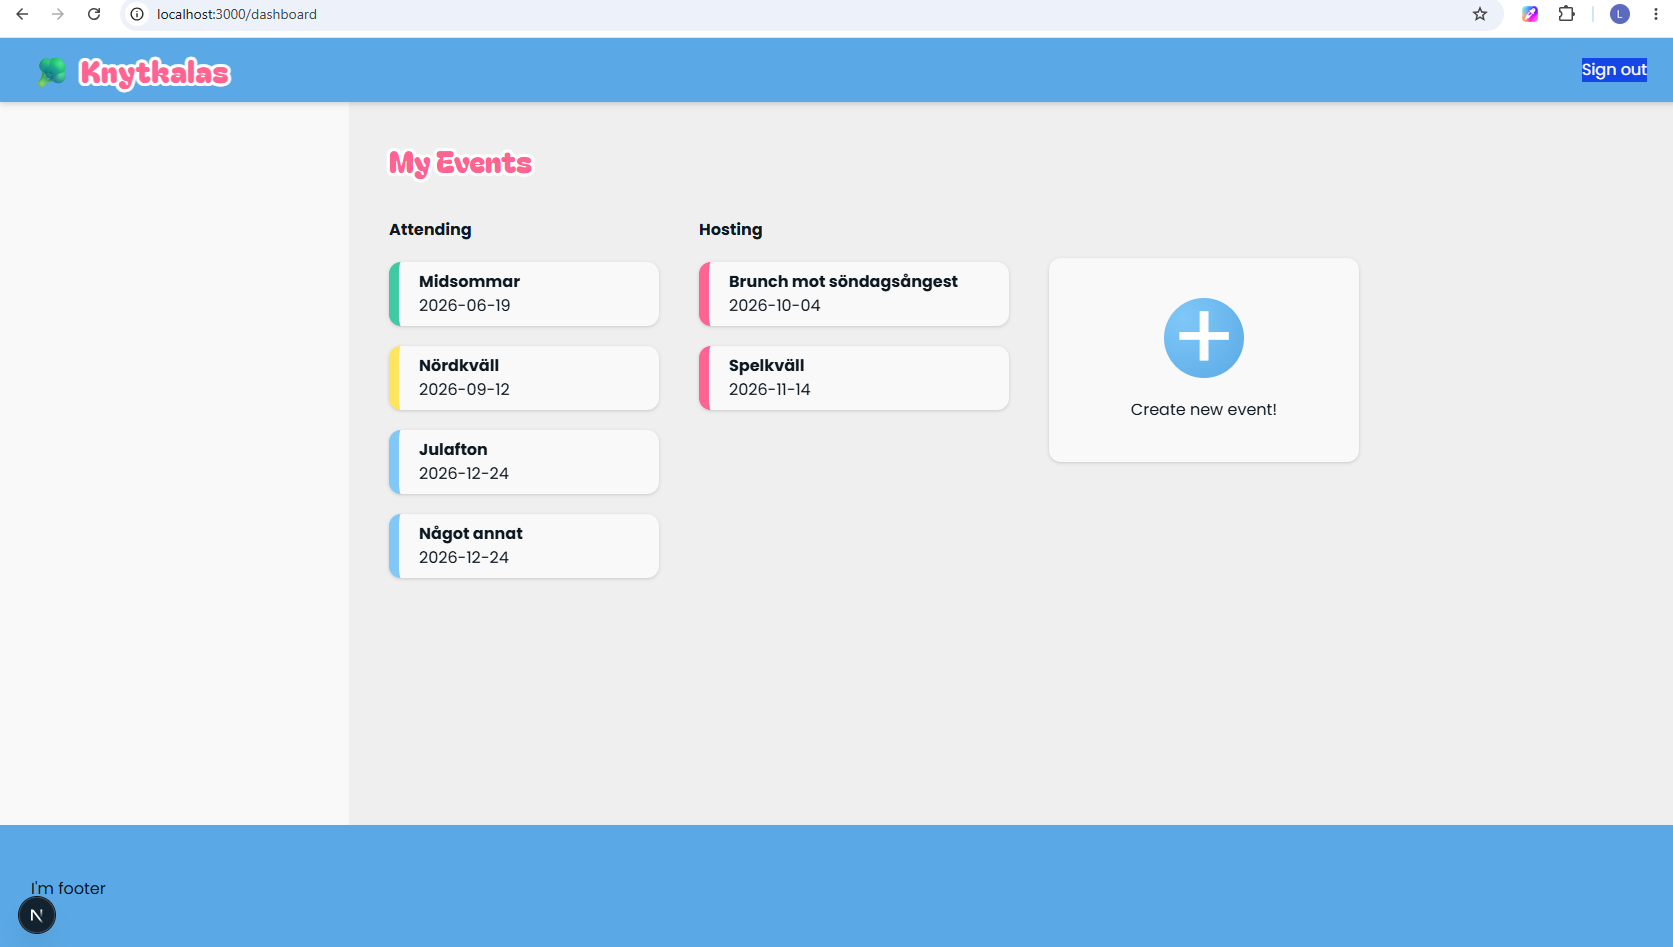
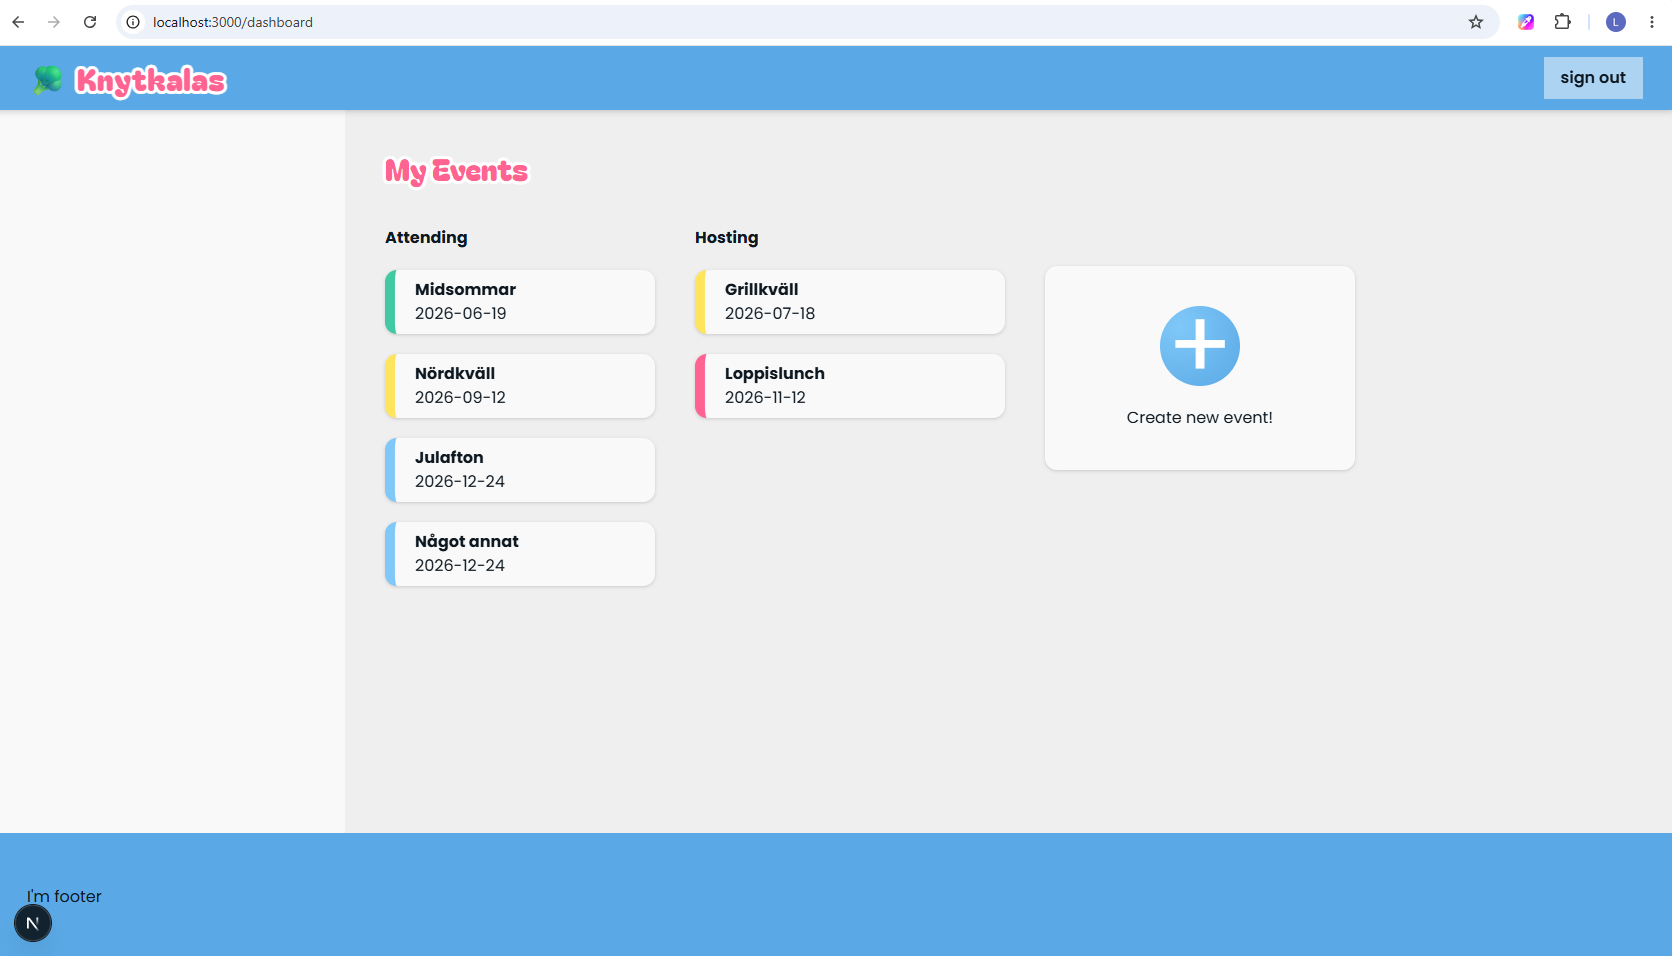
Replace mock hosting data with getHostedEvents, fix login callback-url bug, add auth-redirect handling to login/onboarding, and simplify entity types.

diff --git a/features/auth/hooks/useAuthRedirect.ts b/features/auth/hooks/useAuthRedirect.ts
@@ -1,0 +1,50 @@
+"use client";
+
+import { useEffect, useState } from "react";
+import { useRouter } from "next/navigation";
+import { getCurrentUserId } from "@/features/auth/services/getCurrentUserId";
+import { getCurrentUser } from "@/features/auth/services/getCurrentUser";
+import { UserData } from "@/types/entityTypes";
+import { isPathSafe } from "../utils/isPathSafe";
+
+export function useAuthRedirect(callbackUrl: string) {
+  const [currentUser, setCurrentUser] = useState<UserData | null>(null);
+  const [isLoading, setIsLoading] = useState(true);
+  const router = useRouter();
+  const url = isPathSafe(callbackUrl) ? callbackUrl : "/";
+
+  useEffect(() => {
+    const getUser = async () => {
+      try {
+        const sessionUserId = await getCurrentUserId();
+        if (!sessionUserId) {
+          setIsLoading(false);
+          return;
+        }
+
+        const currentUserData = await getCurrentUser(sessionUserId);
+        if (currentUserData) {
+          setCurrentUser(currentUserData);
+        }
+      } catch (error) {
+        console.error("Failed to fetch user session:", error);
+      } finally {
+        setIsLoading(false);
+      }
+    };
+
+    getUser();
+  }, []);
+
+  useEffect(() => {
+    if (isLoading || !currentUser) return;
+
+    if (currentUser.onboarded) {
+      router.push(url);
+    } else {
+      router.push("/onboarding");
+    }
+  }, [currentUser, url, router, isLoading]);
+
+  return { currentUser, isLoading };
+}

diff --git a/app/dashboard/page.tsx b/app/dashboard/page.tsx
@@ -3,6 +3,7 @@ import EventList from "@/features/dashboard/components/EventList";
 import DashboardMenu from "@/features/dashboard/components/DashboardMenu";
 import FeatureHeadline from "@/components/ui/FeatureHeadline";
 import HostEventCta from "@/features/dashboard/components/HostEventCta";
+import { getHostedEvents } from "@/features/dashboard/services/getHostedEvents";
 
 const mockEvents: PrismaEvent[] = [
   {
@@ -53,34 +54,9 @@ const mockEvents: PrismaEvent[] = [
   },
 ];
 
-const hostMockEvents: PrismaEvent[] = [
-  {
-    id: 101,
-    createdAt: new Date(),
-    occasion: "Brunch mot söndagsångest",
-    description:
-      "Vem orkar måndag? Vi dränker måndagsångesten i mimosa, pannkakor och alldeles för mycket lönnsirap.",
-    activeCategories: ["MAIN", "SALAD", "DESSERT"],
-    date: new Date("2026-10-04T11:00:00"),
-    location: "Café Mys, Götgatan",
-    responseDeadline: new Date("2026-10-02"),
-    hostId: "host-brunch-789",
-  },
-  {
-    id: 102,
-    createdAt: new Date(),
-    occasion: "Spelkväll",
-    description:
-      "Vänskaper kommer att sättas på prov i Monopoly och Settlers. Förloraren diskar.",
-    activeCategories: ["MAIN", "SALAD", "DESSERT"],
-    date: new Date("2026-11-14T18:00:00"),
-    location: "Hemma hos Linus, Lgh 4B",
-    responseDeadline: new Date("2026-11-12"),
-    hostId: "host-gamer-999",
-  },
-];
+export default async function Dashboard() {
+  const hostedEvents = await getHostedEvents();
 
-export default function Dashboard() {
   return (
     <div className="grid h-full max-w-350 grid-cols-4 grid-rows-[auto_1fr]">
       <header className="col-span-2 col-start-2 row-start-1 p-10">
@@ -95,7 +71,7 @@ export default function Dashboard() {
       </section>
       <section className="col-span-1 col-start-3 row-start-2 pr-10">
         <h2 className="mb-5">Hosting</h2>
-        <EventList events={hostMockEvents} />
+        <EventList events={hostedEvents} />
       </section>
       <section className="col-span-1 col-start-4 row-start-2 pr-10">
         <HostEventCta />

diff --git a/app/onboarding/page.tsx b/app/onboarding/page.tsx
@@ -1,0 +1,31 @@
+"use client";
+import OnboardingForm from "@/features/onboarding/components/OnboardingForm";
+import { useEffect } from "react";
+import { useSearchParams } from "next/navigation";
+import { useRouter } from "next/navigation";
+import { useAuthRedirect } from "@/features/auth/hooks/useAuthRedirect";
+import { GoogleLogInButton } from "@/features/auth/components/GoogleLogInButton";
+
+export default function OnboardingPage() {
+  const searchParams = useSearchParams();
+  const callbackUrl = "/" + (searchParams.get("target-url") || "");
+  const { isLoading, currentUser } = useAuthRedirect(callbackUrl);
+  const router = useRouter();
+
+  useEffect(() => {
+    if (!isLoading) {
+      if (currentUser?.onboarded) {
+        router.push(callbackUrl);
+      }
+    }
+  }, [isLoading, callbackUrl, currentUser?.onboarded, router]);
+
+  if (isLoading) {
+    return <main className="flex items-center justify-center">Loading...</main>;
+  }
+
+  if (currentUser?.onboarded) return null;
+  if (currentUser) return <OnboardingForm />;
+
+  if (!currentUser) return <GoogleLogInButton />;
+}

diff --git a/types/entityTypes.ts b/types/entityTypes.ts
@@ -1,33 +1,16 @@
-import { Account, Session } from "better-auth";
 import type { IssueType } from "@/generated/prisma";
 
-export type User = {
-  id: string;
-  createdAt?: Date;
-  email: string;
+export type EventData = { occasion: string; date: Date; id: number };
+
+export type UserData = {
   name: string;
-  sentInvites?: Invite[];
-  receivedInvites?: Invite[];
-  hostedEvents?: Event[];
-  avoids: IssueType[];
-  emailVerified?: boolean;
-  image?: string;
-  updatedAt?: Date;
-  sessions?: Session[];
-  accounts?: Account[];
+  email: string;
+  onboarded: boolean;
+  id: string;
+  avoids?: IssueType[];
 };
 
 export type NewUser = {
   name: string;
   avoids: IssueType[];
-};
-
-export type Invite = {
-  placeholder: string;
-  //WIP
-};
-
-export type Event = {
-  occasion: string;
-  //WIP
 };

diff --git a/data/dal/event/getEvent.ts b/data/dal/event/getEvent.ts
@@ -1,0 +1,25 @@
+"server-only";
+
+import prisma from "@/prisma/utils/prismaUtils";
+
+export const getEvent = async (id: number) => {
+  const event = await prisma.event.findUnique({
+    where: { id: id },
+  });
+
+  if (!event) throw new Error("No matching event found in Database");
+
+  const eventData = {
+    occasion: event.occasion,
+    id: event.id,
+    createdAt: event.createdAt,
+    description: event.description,
+    activeCategories: event.activeCategories,
+    date: event.date,
+    location: event.location,
+    responseDeadline: event.responseDeadline,
+    hostId: event.hostId,
+  };
+
+  return eventData;
+};

diff --git a/data/dal/event/getEventsByUser.ts b/data/dal/event/getEventsByUser.ts
@@ -1,0 +1,21 @@
+"server-only";
+
+import prisma from "@/prisma/utils/prismaUtils";
+
+export const getEventsByUser = async (id: string) => {
+  const usersEvents = await prisma.event.findMany({
+    where: { hostId: id },
+  });
+
+  if (usersEvents.length === 0) return [];
+
+  const usersEventsData = usersEvents.map((event) => {
+    return {
+      occasion: event.occasion,
+      date: event.date,
+      id: event.id,
+    };
+  });
+
+  return usersEventsData;
+};

diff --git a/app/login/page.tsx b/app/login/page.tsx
@@ -1,10 +1,19 @@
 "use client";
+
 import Link from "next/link";
 import { useSearchParams } from "next/navigation";
 import { GoogleLogInButton } from "@/features/auth/components/GoogleLogInButton";
+import { useAuthRedirect } from "@/features/auth/hooks/useAuthRedirect";
 
 export default function LoginPage() {
-  const callbackUrl = "/" + useSearchParams().get("target-url") || "/";
+  const searchParams = useSearchParams();
+  const callbackUrl = "/" + (searchParams.get("target-url") || "");
+
+  const { isLoading } = useAuthRedirect(callbackUrl);
+
+  if (isLoading) {
+    return <main className="flex items-center justify-center">Loading...</main>;
+  }
 
   return (
     <main className="flex flex-col items-center justify-center">
@@ -12,7 +21,7 @@ export default function LoginPage() {
       <h2>Please sign in using your Google account!</h2>
       <GoogleLogInButton callbackUrl={callbackUrl} />
       <p>
-        Don&apos;t have an account yet?
+        Don&apos;t have an account yet?{" "}
         <Link href="/onboarding">Join the party!</Link>
       </p>
     </main>

diff --git a/features/auth/services/getCurrentUser.ts b/features/auth/services/getCurrentUser.ts
@@ -1,0 +1,12 @@
+//Server service function needed, since DAL will not communicate directly with client component
+
+"use server";
+import { getUser } from "@/data/dal/user/getUser";
+
+export const getCurrentUser = async (id: string) => {
+  try {
+    return await getUser(id);
+  } catch {
+    return undefined;
+  }
+};

diff --git a/features/auth/services/getCurrentUserId.ts b/features/auth/services/getCurrentUserId.ts
@@ -1,0 +1,10 @@
+"use server";
+import { getSessionUserId } from "@/data/auth/getSessionUserId";
+
+export const getCurrentUserId = async () => {
+  try {
+    return await getSessionUserId();
+  } catch {
+    return undefined;
+  }
+};

diff --git a/features/dashboard/services/getHostedEvents.ts b/features/dashboard/services/getHostedEvents.ts
@@ -1,0 +1,8 @@
+import { getEventsByUser } from "@/data/dal/event/getEventsByUser";
+import { getSessionUserId } from "@/data/auth/getSessionUserId";
+
+export const getHostedEvents = async () => {
+  const userId = await getSessionUserId();
+  const hostedEvents = await getEventsByUser(userId);
+  return hostedEvents;
+};

diff --git a/features/auth/components/SignOutButton.tsx b/features/auth/components/SignOutButton.tsx
@@ -2,6 +2,7 @@
 import { signOut } from "@/data/auth/auth-client";
 import { useRouter } from "next/navigation";
 import { useSession } from "@/data/auth/auth-client";
+import Button from "@/components/ui/Button";
 
 export function SignOutButton() {
   const { data } = useSession();
@@ -16,11 +17,9 @@ export function SignOutButton() {
   return (
     <>
       {data && (
-        <button
-          className="cursor-pointer bg-blue-700 text-white"
-          onClick={handleSignOut}>
+        <Button variant="ghost" onClick={handleSignOut}>
           Sign out
-        </button>
+        </Button>
       )}
     </>
   );

diff --git a/features/dashboard/utils/orderByDate.ts b/features/dashboard/utils/orderByDate.ts
@@ -1,5 +1,6 @@
-import { Event as PrismaEvent } from "@/generated/prisma";
+import { EventData } from "@/types/entityTypes";
 
-export const orderByDate = (events: PrismaEvent[]) => {
+export const orderByDate = (events: EventData[]) => {
+  if (events.length <= 1) return [...events];
   return [...events].sort((a, b) => a.date.getTime() - b.date.getTime());
 };